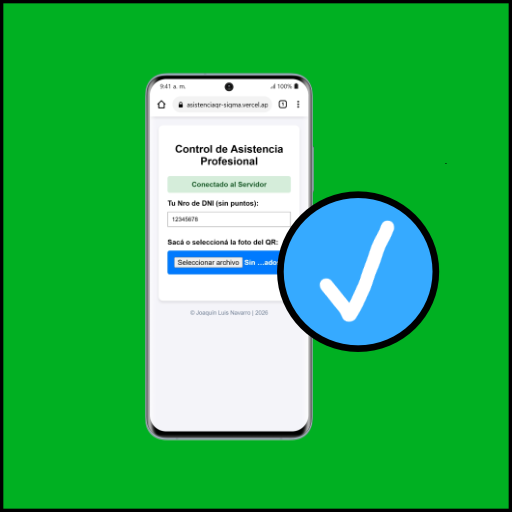
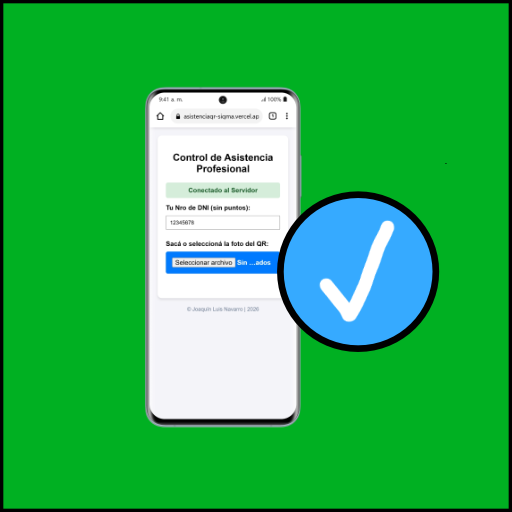
Add files via upload

Changed region(s): [[0.2812, 0.125, 0.625, 0.5625], [0.2812, 0.625, 0.625, 0.875], [0.375, 0.5938, 0.5312, 0.625]]

diff --git a/service-worker.js b/service-worker.js
@@ -1,15 +1,15 @@
 // 1. Nombre del caché incrementado según la versión en curso
-const CACHE_NAME = 'asist-pro-root-v0.8'; 
+const CACHE_NAME = 'asist-pro-root-v0.9'; 
 
 // Rutas absolutas del repositorio para evitar fallos en GitHub Pages
 const ASSETS = [
   '/',
   '/index.html',
   // Este número de la v= manifest debe ser el de actualización en curso
-  '/manifest.json?v=0.8',
+  '/manifest.json?v=0.9',
   '/checkmark_192x192E.png',
   '/checkmark_512x512E.png',
-  '/maskable-icon-512x512.png?v=0.8' // Nombre corregido según la v= del manifest
+  '/maskable-icon-512x512.png?v=0.9' // Nombre corregido según la v= del manifest
 ];
 
 // Instala el Service Worker y guarda los archivos en caché

diff --git a/index.html b/index.html
@@ -7,7 +7,7 @@
 
     <!-- Enlaces obligatorios para la PWA instalable en GitHub Pages -->
     <!-- Cambiar el ?v= de tu manifiesto obliga al navegador a leer el archivo nuevo -->
-<link rel="manifest" href="/manifest.json?v=0.8">
+<link rel="manifest" href="/manifest.json?v=0.9">
     <meta name="theme-color" content="#20558a">
     <meta name="mobile-web-app-capable" content="yes">
     <meta name="apple-mobile-web-app-capable" content="yes">